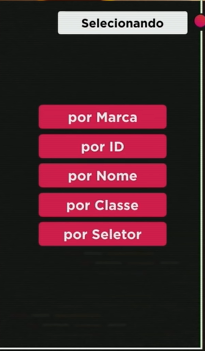
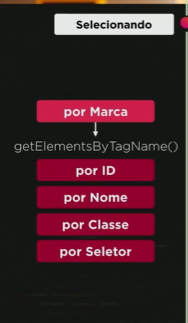
commit-24-10-03-final-intro-DOM

diff --git a/javascript/curso-em-video/modulo01/ex04-conhecendo-DOM/index.html b/javascript/curso-em-video/modulo01/ex04-conhecendo-DOM/index.html
@@ -11,9 +11,9 @@
 <body>
     <main>
         <h1>Introdução a DOM - Document Object Model</h1>
-        <div>
+        <div id="principal">
             <h2>DOM é um modelo de objetos para documentos</h2>
-            <p>Basicamente é um conjunto de objetos dentro do navegador que vai
+            <p>Basicamente é um <b>conjunto de objetos dentro do navegador</b> que vai
                 dar acesso aos componentes internos do site.</p>
         </div>
 
@@ -25,7 +25,7 @@
                 window. Dentro de window temos vários outro objetos:</p>
             <ul>
                 <li><b>location</b></li>
-                <ul type="">
+                <ul>
                     <li>Qual é a localização do site, URL, qual a página atual e a anterior</li>
                     <li>Em documento teremos o objeto HTML <b>(child de location e parent de head e body)</b> com dois
                         objetos
@@ -55,6 +55,7 @@
         <div>
             <p>Podemos selecionar esses elementos para navegar na minha árvore DOM</p>
             <img class="img1" src="imgs/selecao.png" alt="selecao">
+            <p>O <b>getElementsByTagName()</b> é um método que seleciona mais de um objeto se não especificarmos.</p>
             <p>O conteúdo abaixo está sendo inserido por uma seleção do objeto 'p' pelo comando</p>
             <pre><code>var p1 = window.document.getElementsByTagName('p')[0]
                window.document.write(p1.innerText)</code></pre>
@@ -65,7 +66,28 @@
         </div>
         <script>
             var p1 = window.document.getElementsByTagName('p')[0]
+            //vai sem formatação
             window.document.write(p1.innerText)
+            //vai a formatação completa com os detalhes da tag
+            window.document.write(p1.innerHTML)
+        </script>
+        <p>Podemos também utilizar os:</p>
+        <ul>
+            <li><b>getElementById()</b></li>
+            <li><b>getElementsByName()[]</b></li>
+            <li><b>getElementsByClassName()[]</b></li>
+        </ul>
+        <p>Para transmitir o que está abaixo foi feito dessa forma:</p>
+        <p>a principal é o nome do id da div que foi mostrada em tela</p>
+        <pre><code>var d = window.document.getElementById('principal')
+            window.document.write(d.innerHTML)</code></pre>
+        <script>
+            var d = window.document.getElementById('principal')
+            //para modificar o que tem na variável
+            //d.innerText = 'Estou aprendendo...'
+            //window.document.getElementById('principal').innerText = 'Olá'
+            window.document.write(d.innerHTML)
+            d.style.background = 'green'
         </script>
     </main>
 </body>
